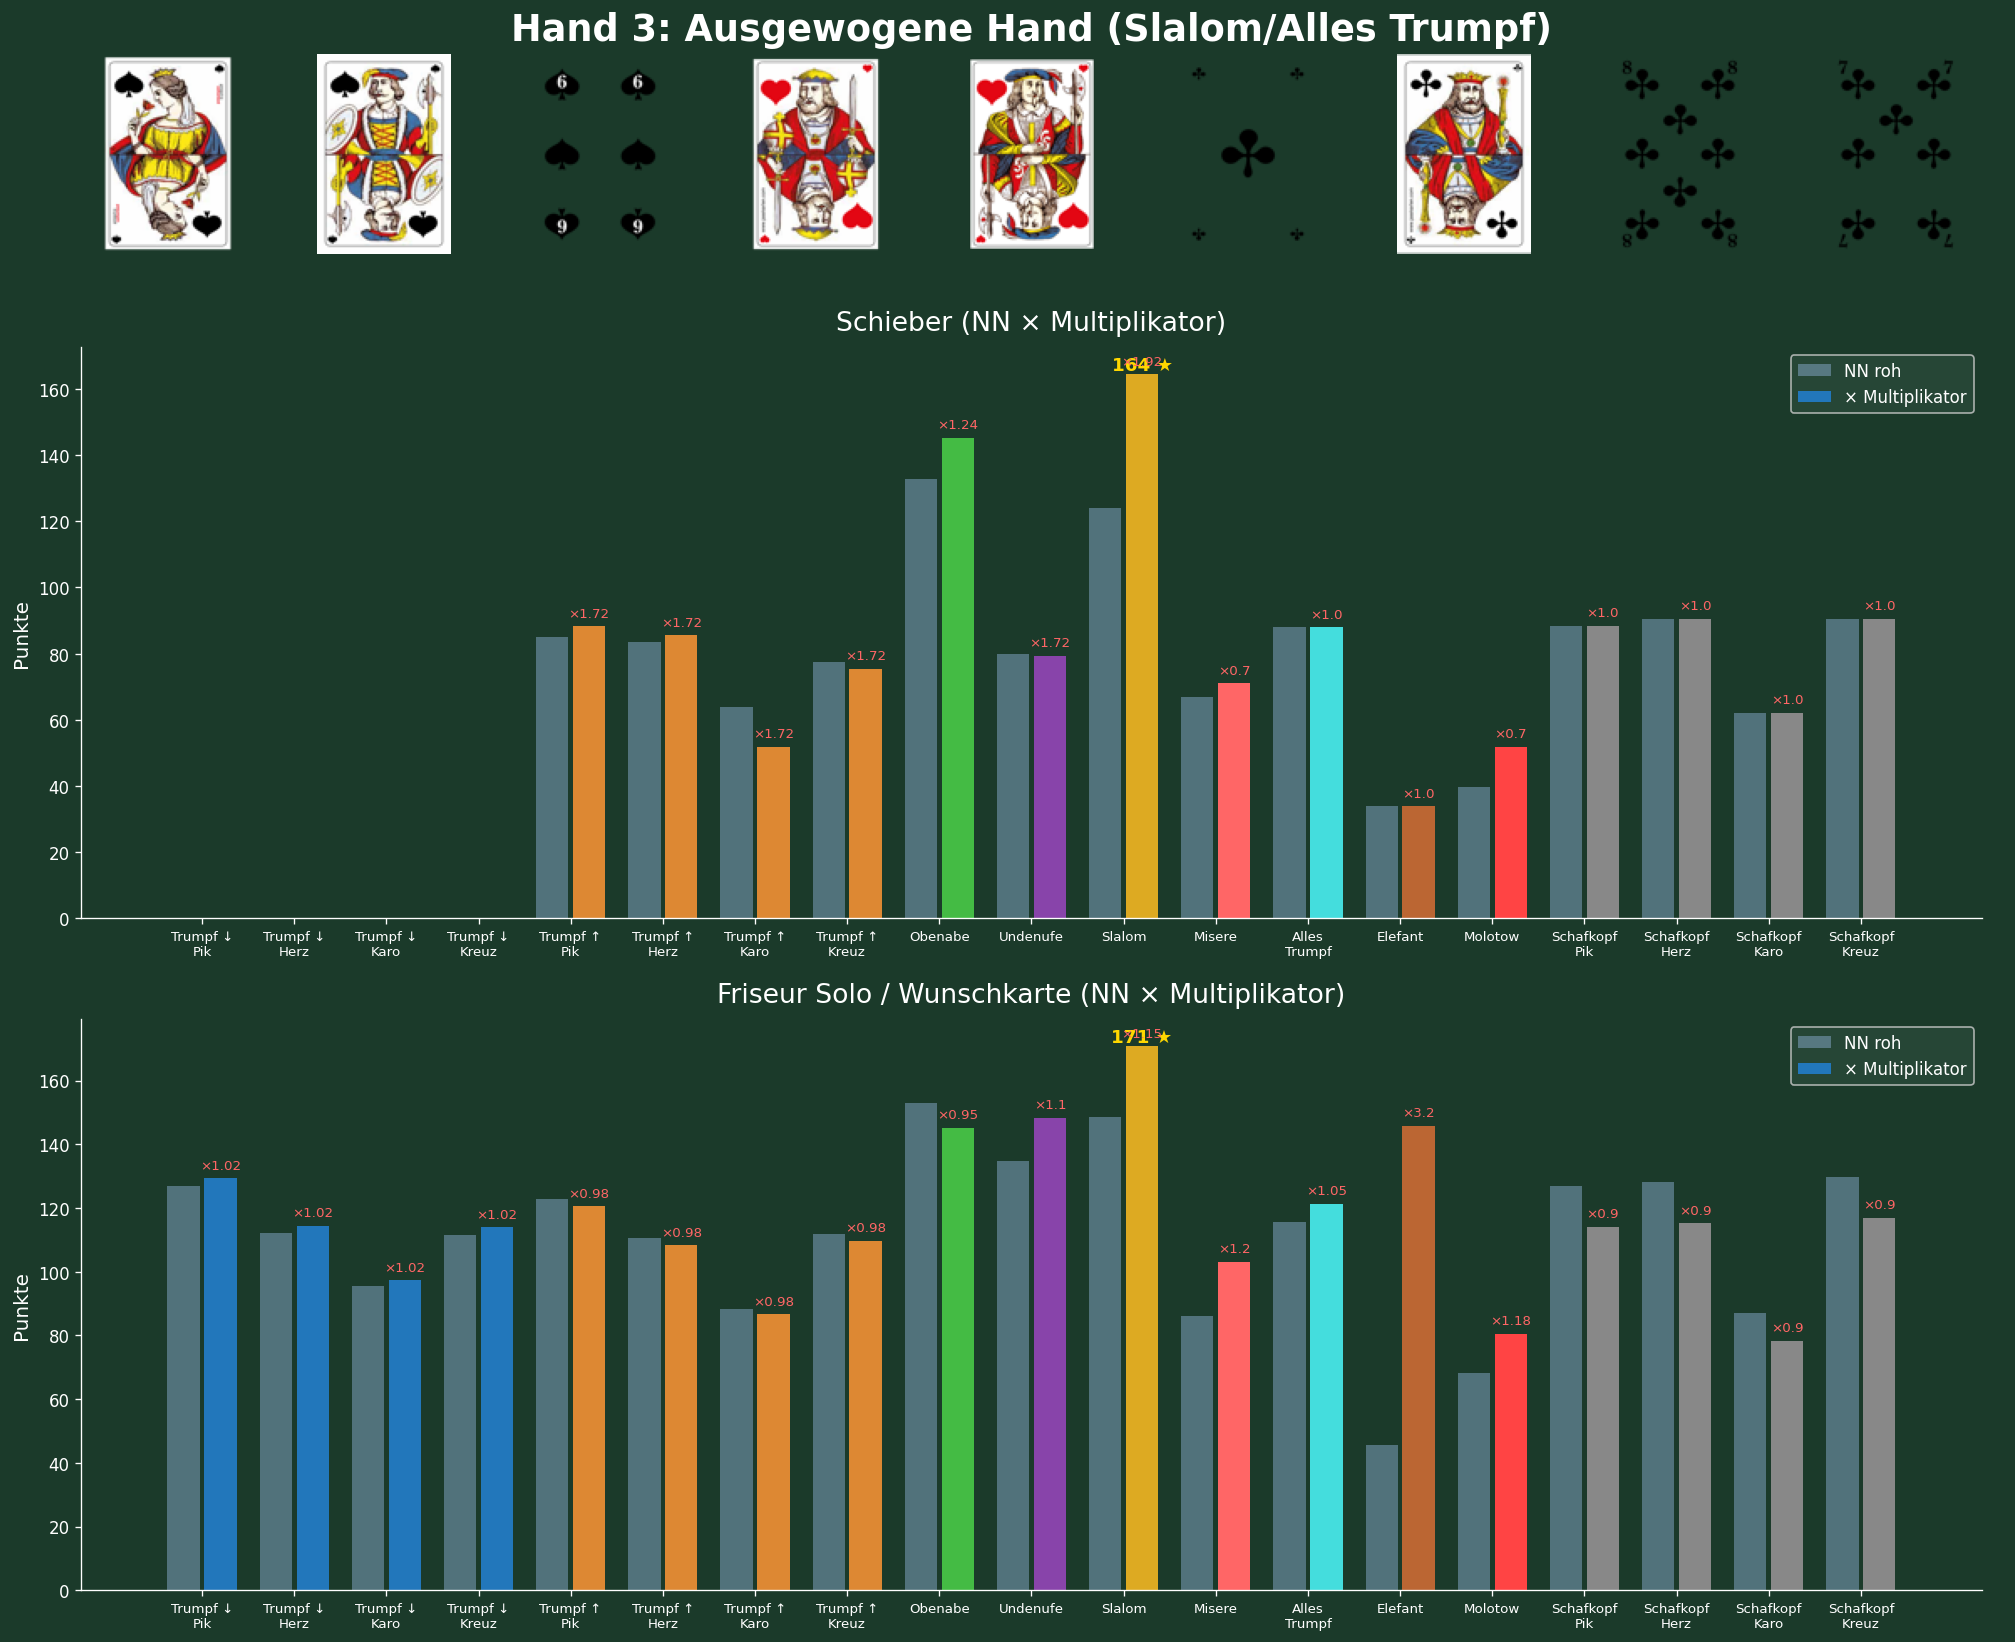
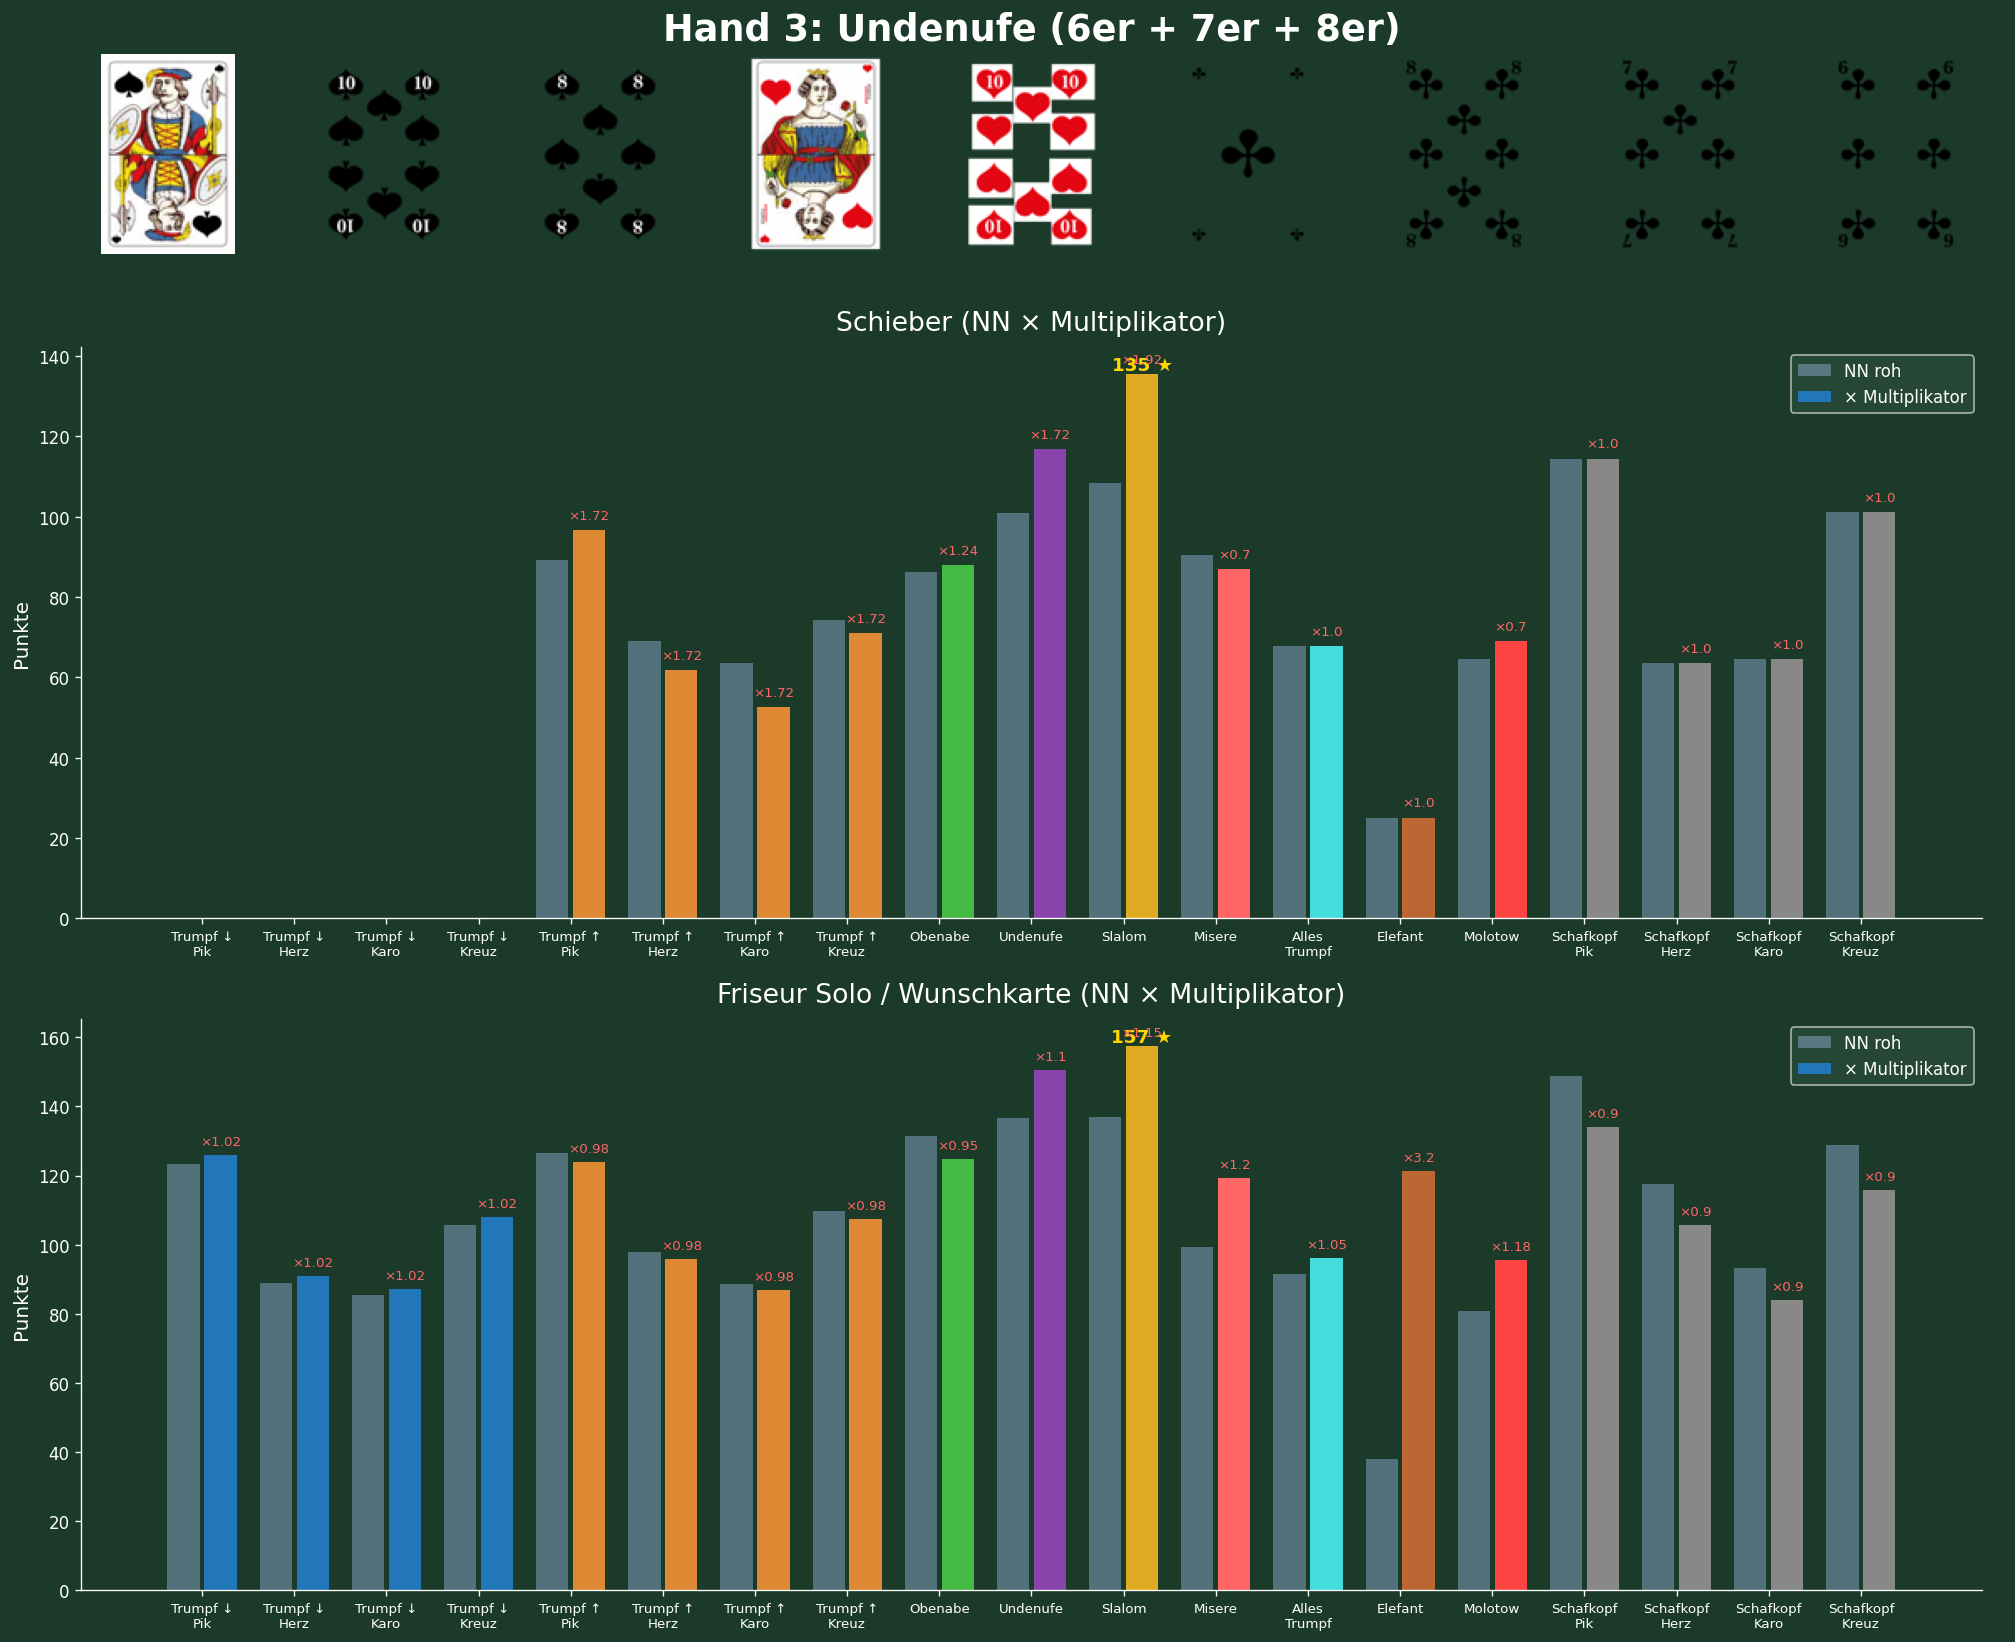
5 repräsentative Beispielhände: Oben, Trumpf↑, Unten, Schafkopf, Slalom
- Seeds gewählt die 5 verschiedene Modi ergeben
- Friseur Solo Charts mit korrekter Wunschkarte-Bewertung
- Jede Hand zeigt anderen besten Modus (keine Wiederholung)

diff --git a/test/hand_eval_test.dart b/test/hand_eval_test.dart
@@ -1,0 +1,123 @@
+import 'dart:convert';
+import 'dart:io';
+import 'dart:math';
+import 'package:flutter_test/flutter_test.dart';
+import 'package:jass_app/models/card_model.dart';
+import 'package:jass_app/models/deck.dart';
+import 'package:jass_app/models/game_state.dart';
+import 'package:jass_app/models/player.dart';
+import 'package:jass_app/utils/mode_selector.dart';
+import 'package:jass_app/utils/nn_model.dart';
+
+void main() {
+  TestWidgetsFlutterBinding.ensureInitialized();
+
+  test('5 random hands with evaluations', () async {
+    try {
+      final file = File('assets/jass_nn_weights.json');
+      if (file.existsSync()) {
+        final data = jsonDecode(file.readAsStringSync()) as Map<String, dynamic>;
+        JassNNModel.instance.loadFromJson(data);
+      }
+    } catch (_) {}
+
+    // Seeds die verschiedene Modi ergeben (repräsentative Mischung)
+    final seeds = [3, 7, 0, 9, 11]; // Oben, Trumpf↑, Unten, Schafkopf, Slalom
+    for (int i = 0; i < 5; i++) {
+      final rng = Random(seeds[i]);
+      final allCards = Deck.allCards(CardType.french)..shuffle(Random(seeds[i]));
+      final hand = allCards.sublist(0, 9);
+      final players = [
+        Player(id: 'p0', name: 'Süd', position: PlayerPosition.south, hand: hand),
+        Player(id: 'p1', name: 'West', position: PlayerPosition.west, hand: allCards.sublist(9, 18)),
+        Player(id: 'p2', name: 'Nord', position: PlayerPosition.north, hand: allCards.sublist(18, 27)),
+        Player(id: 'p3', name: 'Ost', position: PlayerPosition.east, hand: allCards.sublist(27, 36)),
+      ];
+
+      // Schieber
+      final schieberState = GameState(
+        players: players, gameType: GameType.schieber, cardType: CardType.french,
+        phase: GamePhase.trumpSelection, ansagerIndex: 0, currentPlayerIndex: 0,
+        schieberMultipliers: const {'trump_ss': 1, 'trump_re': 2, 'oben': 3, 'unten': 3, 'slalom': 3},
+      );
+      final schieberResult = ModeSelectorAI.selectMode(player: players[0], state: schieberState);
+
+      // Friseur Solo
+      final friseurState = GameState(
+        players: players, gameType: GameType.friseur, cardType: CardType.french,
+        phase: GamePhase.trumpSelection, ansagerIndex: 0, currentPlayerIndex: 0,
+      );
+      final friseurResult = ModeSelectorAI.selectMode(player: players[0], state: friseurState);
+
+      // Hand anzeigen
+      hand.sort((a, b) {
+        final suitCmp = a.suit.index.compareTo(b.suit.index);
+        if (suitCmp != 0) return suitCmp;
+        return b.value.index.compareTo(a.value.index);
+      });
+
+      print('══════════════════════════════════════════════');
+      print('HAND ${i + 1}:');
+      final grouped = <Suit, List<JassCard>>{};
+      for (final c in hand) {
+        grouped.putIfAbsent(c.suit, () => []).add(c);
+      }
+      for (final suit in [Suit.spades, Suit.hearts, Suit.diamonds, Suit.clubs]) {
+        final cards = grouped[suit];
+        if (cards == null) continue;
+        final names = cards.map((c) => c.displayValue).join(' ');
+        print('  ${suit.symbol} $names');
+      }
+
+      String modeStr(GameMode mode, Suit? trump) {
+        if (mode == GameMode.trumpUnten) return 'Trumpf Unten ${trump?.symbol ?? ""}';
+        if (trump != null) {
+          final label = mode == GameMode.schafkopf ? 'Schafkopf' : 'Trumpf Oben';
+          return '$label ${trump.symbol}';
+        }
+        return switch (mode) {
+          GameMode.oben => 'Obenabe',
+          GameMode.unten => 'Undenufe',
+          GameMode.slalom => 'Slalom',
+          GameMode.misere => 'Misère',
+          GameMode.allesTrumpf => 'Alles Trumpf',
+          GameMode.elefant => 'Elefant',
+          GameMode.molotof => 'Molotow',
+          _ => mode.name,
+        };
+      }
+
+      print('  Schieber:     ${modeStr(schieberResult.mode, schieberResult.trumpSuit)}');
+      print('  Friseur Solo: ${modeStr(friseurResult.mode, friseurResult.trumpSuit)}');
+      if (friseurResult.wishCard != null) {
+        print('  Wunschkarte:  ${friseurResult.wishCard!.suit.symbol}${friseurResult.wishCard!.displayValue}');
+      }
+      print('');
+
+      // Alle Varianten mit Heuristik-Scores
+      final suits4 = [Suit.spades, Suit.hearts, Suit.diamonds, Suit.clubs];
+      final entries = <({String label, double score})>[];
+      for (final suit in suits4) {
+        entries.add((label: 'Trump ↑ ${suit.symbol}', score: ModeSelectorAI.scoreForMode(hand, GameMode.trump, suit)));
+        entries.add((label: 'Trump ↓ ${suit.symbol}', score: ModeSelectorAI.scoreForMode(hand, GameMode.trumpUnten, suit)));
+        entries.add((label: 'Schafkopf ${suit.symbol}', score: ModeSelectorAI.scoreForMode(hand, GameMode.schafkopf, suit)));
+      }
+      entries.add((label: 'Obenabe', score: ModeSelectorAI.scoreForMode(hand, GameMode.oben, null)));
+      entries.add((label: 'Undenufe', score: ModeSelectorAI.scoreForMode(hand, GameMode.unten, null)));
+      entries.add((label: 'Slalom', score: ModeSelectorAI.scoreForMode(hand, GameMode.slalom, null)));
+      entries.add((label: 'Alles Trumpf', score: ModeSelectorAI.scoreForMode(hand, GameMode.allesTrumpf, null)));
+      entries.add((label: 'Elefant', score: ModeSelectorAI.scoreForMode(hand, GameMode.elefant, null)));
+      entries.add((label: 'Misère', score: ModeSelectorAI.scoreForMode(hand, GameMode.misere, null)));
+      entries.add((label: 'Molotow', score: ModeSelectorAI.scoreForMode(hand, GameMode.molotof, null)));
+
+      entries.sort((a, b) => b.score.compareTo(a.score));
+      print('  Heuristik-Scores (Top 10):');
+      for (int j = 0; j < 10 && j < entries.length; j++) {
+        final e = entries[j];
+        final bar = '█' * (e.score / 10).round().clamp(0, 30);
+        print('    ${e.label.padRight(18)} ${e.score.toStringAsFixed(0).padLeft(4)} $bar');
+      }
+      print('');
+    }
+  });
+}

diff --git a/scripts/hand_charts.py b/scripts/hand_charts.py
@@ -102,30 +102,30 @@ BAR_COLORS_MULT = [
 
 # ── 5 Hände ─────────────────────────────────────────────────────
 HANDS = [
-    {
-        'title': 'Hand 1: Starke Obenabe-Hand (3 Asse)',
-        'cards': [('S','A'), ('S','U'), ('H','O'), ('H','U'), ('H','8'),
-                  ('D','A'), ('D','O'), ('D','8'), ('C','A')],
+    {   # Seed 3: Obenabe
+        'title': 'Hand 1: Obenabe (2 Asse, starke Herz)',
+        'cards': [('S','9'), ('H','A'), ('H','K'), ('H','10'), ('H','6'),
+                  ('D','O'), ('D','10'), ('D','8'), ('C','K')],
     },
-    {
-        'title': 'Hand 2: Trumpf Ecken mit Buur + Nell',
-        'cards': [('S','O'), ('S','8'), ('S','6'), ('H','7'),
-                  ('D','U'), ('D','9'), ('C','A'), ('C','O'), ('C','10')],
+    {   # Seed 7: Trumpf Oben ♦
+        'title': 'Hand 2: Trumpf Oben Ecken (Buur + Nell)',
+        'cards': [('S','A'), ('S','10'), ('H','10'), ('H','8'), ('H','6'),
+                  ('D','O'), ('D','U'), ('D','8'), ('C','K')],
     },
-    {
-        'title': 'Hand 3: Ausgewogene Hand (Slalom/Alles Trumpf)',
-        'cards': [('S','O'), ('S','U'), ('S','6'), ('H','K'), ('H','U'),
-                  ('C','A'), ('C','K'), ('C','8'), ('C','7')],
+    {   # Seed 0: Undenufe
+        'title': 'Hand 3: Undenufe (6er + 7er + 8er)',
+        'cards': [('S','U'), ('S','10'), ('S','8'), ('H','O'), ('H','10'),
+                  ('C','A'), ('C','8'), ('C','7'), ('C','6')],
     },
-    {
-        'title': 'Hand 4: Undenufe-Hand (6er + 7er)',
-        'cards': [('S','A'), ('S','K'), ('H','10'), ('H','9'), ('H','7'),
-                  ('D','6'), ('C','K'), ('C','7'), ('C','6')],
+    {   # Seed 9: Schafkopf ♥
+        'title': 'Hand 4: Schafkopf Herz (3 Damen + 8er)',
+        'cards': [('S','8'), ('S','7'), ('H','O'), ('H','U'), ('H','10'),
+                  ('H','8'), ('D','O'), ('C','A'), ('C','O')],
     },
-    {
-        'title': 'Hand 5: Lange Pik-Farbe (4 Karten)',
-        'cards': [('S','K'), ('S','O'), ('S','10'), ('S','9'),
-                  ('H','9'), ('H','7'), ('D','O'), ('D','9'), ('D','7')],
+    {   # Seed 11: Slalom
+        'title': 'Hand 5: Slalom (Asse + 6er)',
+        'cards': [('S','U'), ('D','K'), ('D','U'), ('D','9'), ('D','8'),
+                  ('C','A'), ('C','U'), ('C','7'), ('C','6')],
     },
 ]
 
